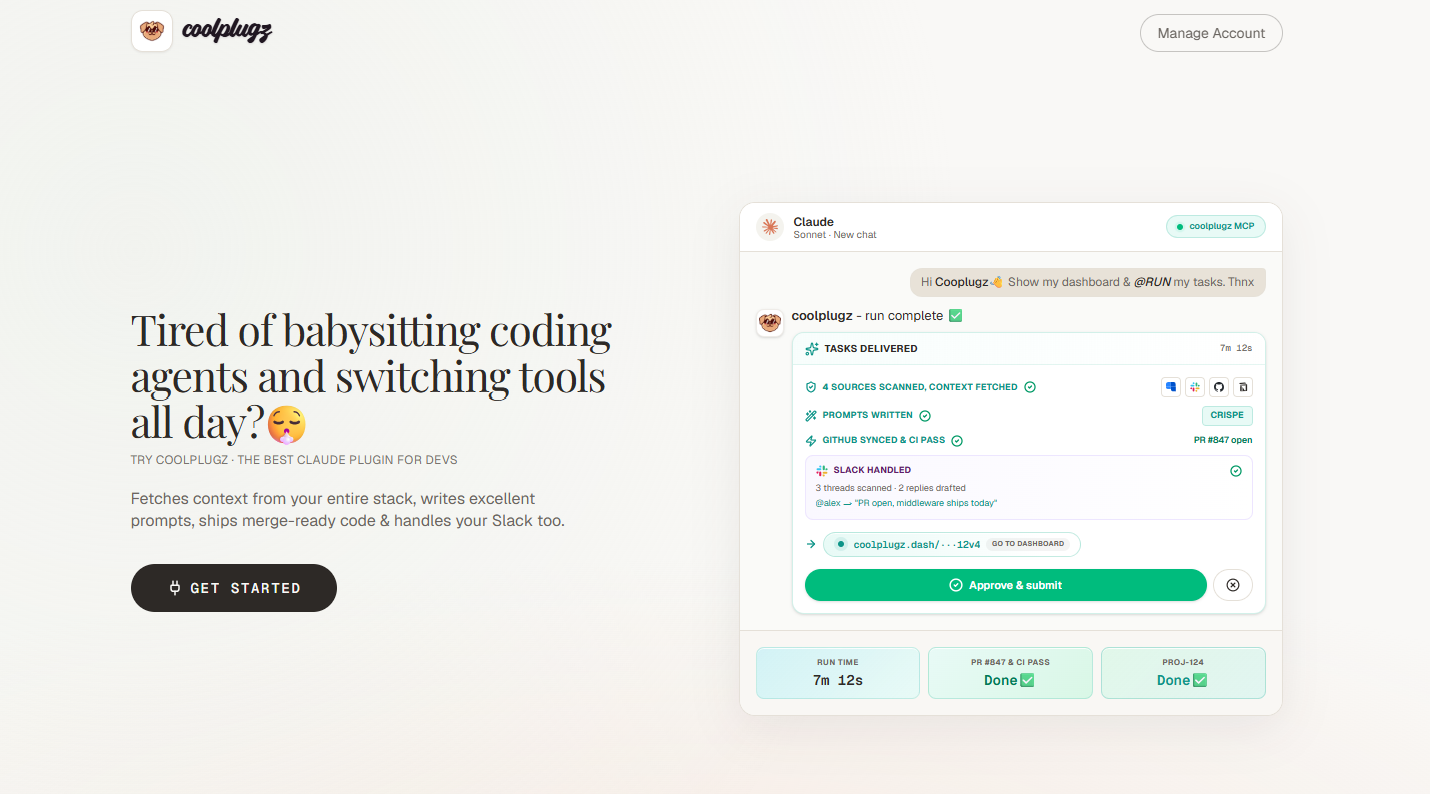
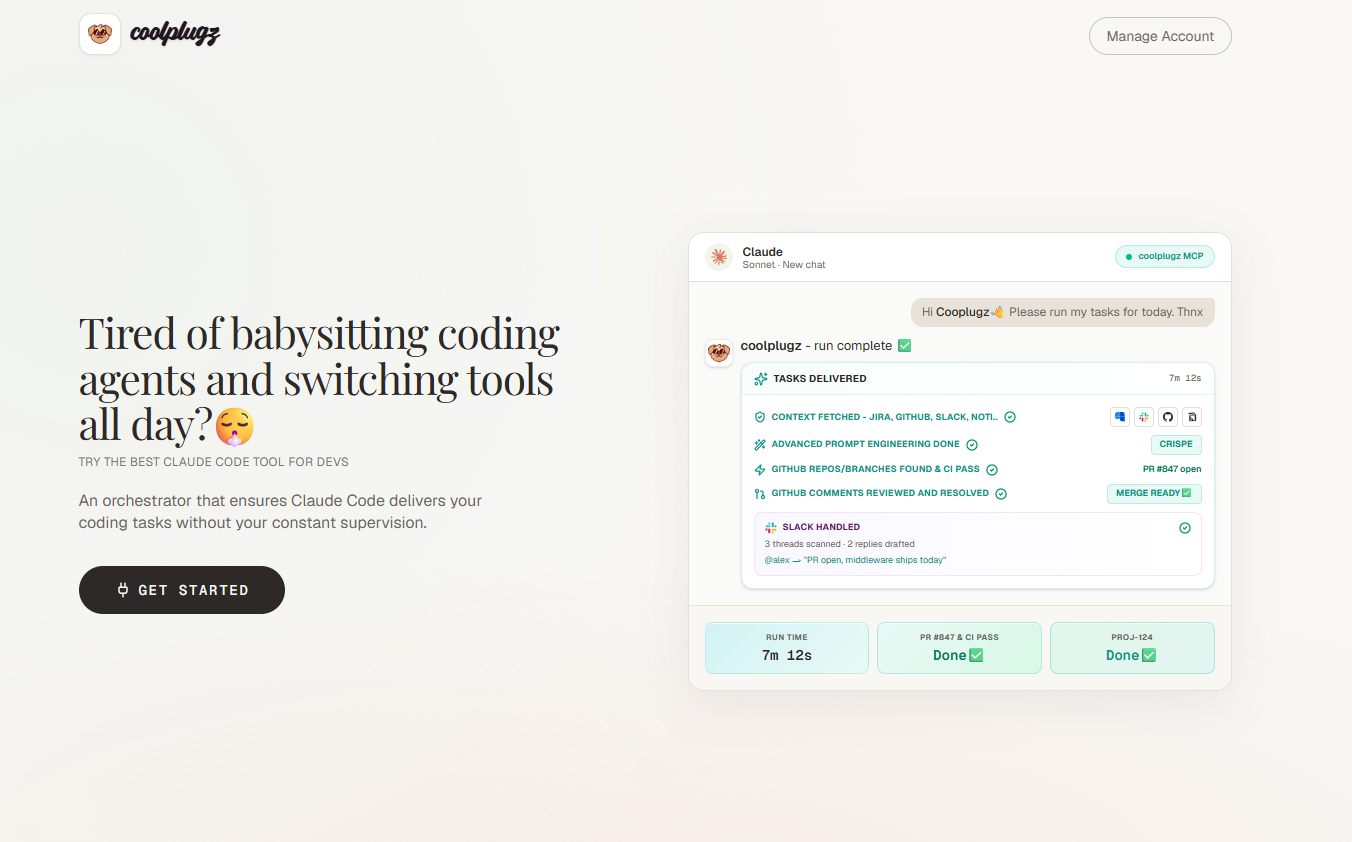
seo optimize

diff --git a/src/lib/seo.ts b/src/lib/seo.ts
@@ -17,12 +17,12 @@ export const OG_IMAGE = {
 
 /** X/Twitter card descriptions should stay under ~200 chars. */
 export const TWITTER_CARD_DESCRIPTION =
-  "Orchestration layer for Claude Code: Jira, Slack, GitHub & Notion context, guided workflows — Claude Code executes in your environment.";
+  "An orchestration layer that guides Claude Code to deliver your coding tasks - context, workflows, and CI without your constant supervision.";
 
 export const SEO_DEFAULTS = {
   title: "coolplugz - Get engineering work done without AI fatigue",
   description:
-    "Orchestration layer for Claude Code: gathers context from Jira, Slack, GitHub & Notion and guides your session — Claude Code executes in your environment.",
+    "An orchestration layer that guides Claude Code to deliver your coding tasks - context, workflows, and CI without your constant supervision.",
   keywords: [
     "Claude plugin for developers",
     "Claude plugin for engineers",
@@ -55,6 +55,11 @@ export const SEO_DEFAULTS = {
     "make money with claude",
     "how to make money with claude",
     "make money with AI",
+    "orchestration layer for Claude Code",
+    "deliver coding tasks with Claude Code",
+    "no babysitting Claude Code",
+    "Claude Code without supervision",
+    "Claude Code without my constant supervision",
     "generate passive income with AI",
     "generate passive income with Claude",
     "passive income with AI",

diff --git a/src/components/landing/FAQSection.tsx b/src/components/landing/FAQSection.tsx
@@ -36,7 +36,7 @@ export const faqItems: {
   {
     question: "Do I write or copy prompts myself?",
     answer:
-      "No. CoolPlugz is an orchestration layer — it gathers context, structures workflows, and guides your Claude Code session. You don't write prompts or copy-paste between tools. Claude Code executes in your environment; CoolPlugz keeps the session on track.",
+      "No. CoolPlugz is an orchestration layer - it gathers context, structures workflows, and guides your Claude Code session. You don't write prompts or copy-paste between tools. Claude Code executes in your environment; CoolPlugz keeps the session on track.",
   },
   {
     question: "What does Approve & submit vs Reject & redo actually mean?",

diff --git a/src/components/landing/ReleasesSection.tsx b/src/components/landing/ReleasesSection.tsx
@@ -13,7 +13,7 @@ import { cn } from "@/lib/utils";
 const flagship = {
   title: "Context Engineer",
   description:
-    "One Claude plugin for engineers. An orchestration layer that guides Claude Code through your stack - context, workflows, and delivery without babysitting.",
+    "An orchestration layer that guides Claude Code to deliver your coding tasks - context, workflows, and delivery without babysitting.",
   price: "Included in $17/mo plan",
 };
 
